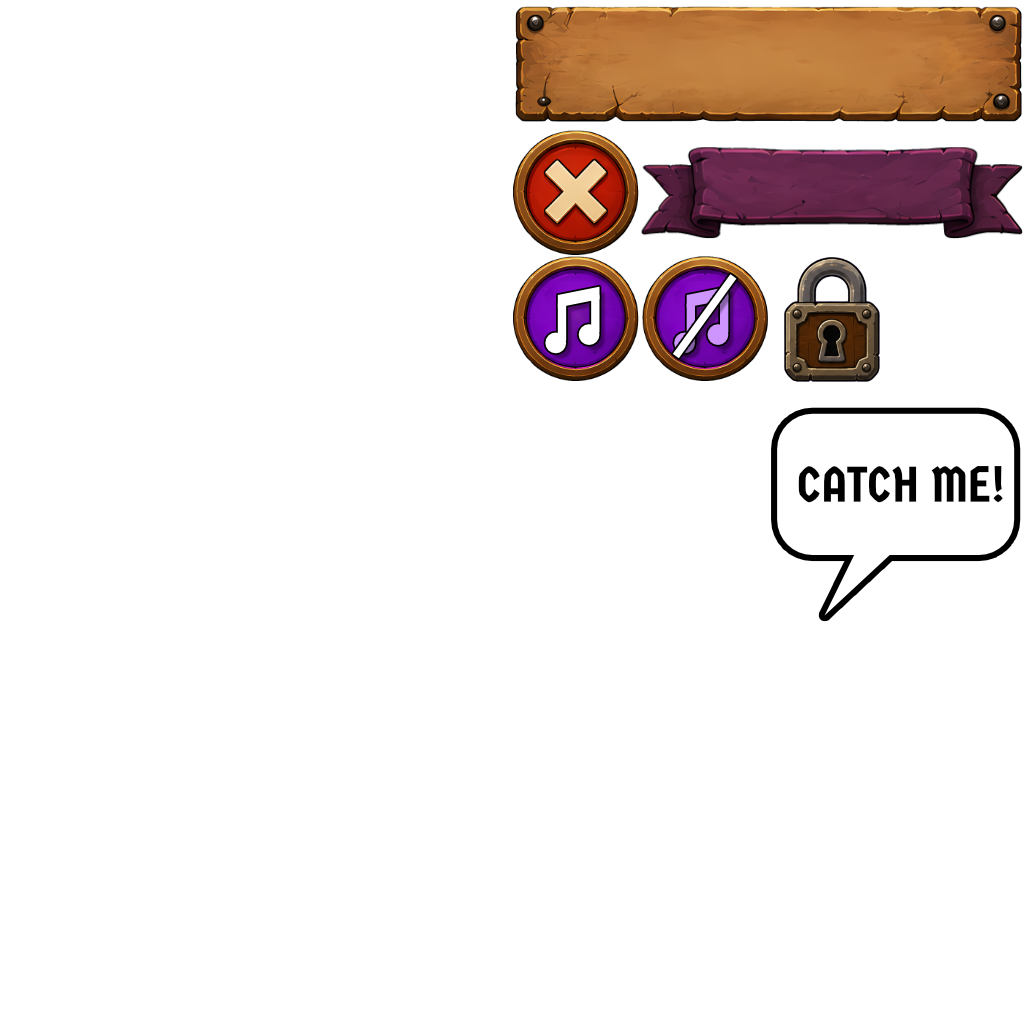
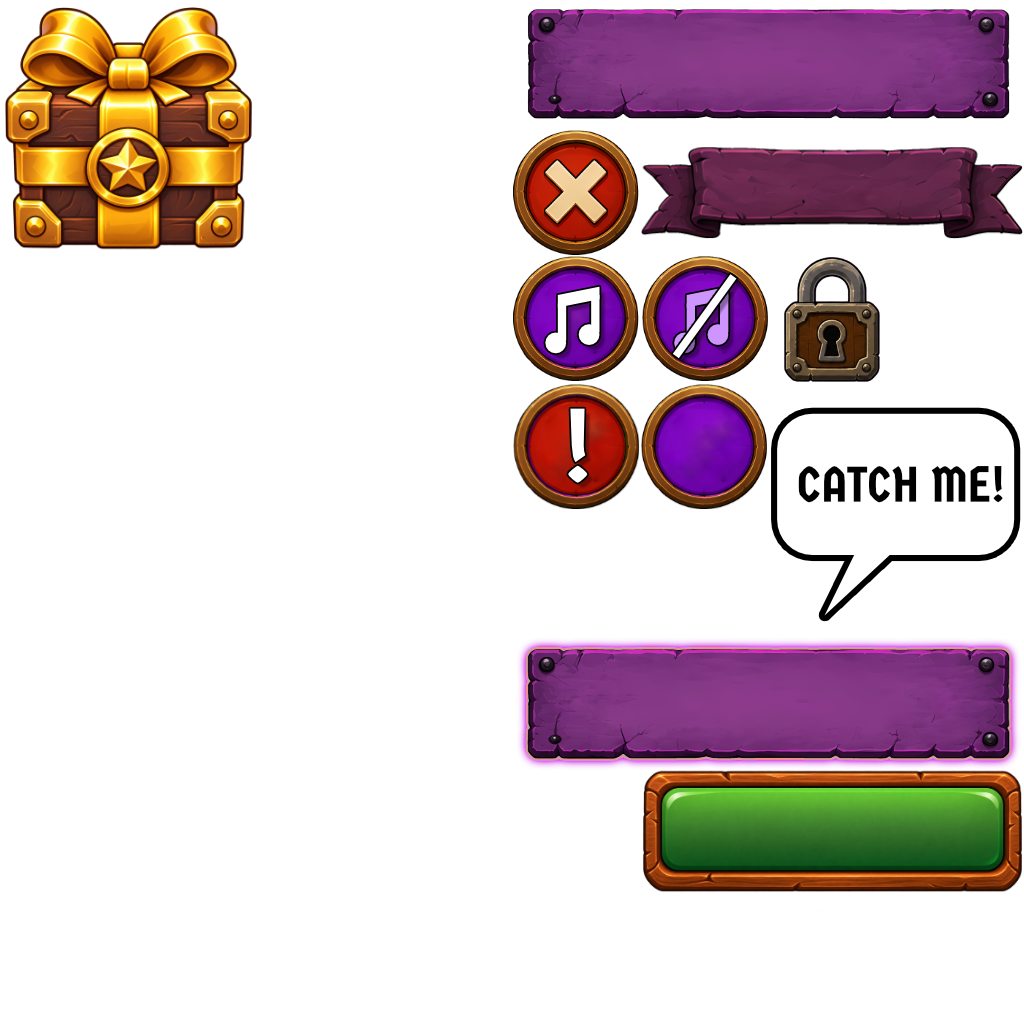
Improve weekly rewards button and screen

diff --git a/src/weeklyRewards.tsx b/src/weeklyRewards.tsx
@@ -1,11 +1,14 @@
-import ReactEcs, { UiEntity, Label, UiBackgroundProps } from '@dcl/sdk/react-ecs'
+import ReactEcs, { UiEntity, UiBackgroundProps } from '@dcl/sdk/react-ecs'
+import { engine } from '@dcl/sdk/ecs'
 import { Color4 } from '@dcl/sdk/math'
 import { getPlayer } from '@dcl/sdk/players'
 import { timers } from '@dcl-sdk/utils'
 import { room } from './shared/messages'
 import { guard } from './errorTrap'
+import { BitmapText, GERM_ONE_FONT, GERM_ONE_IMAGE, GERM_ONE_IMAGE_BROWN } from './bitmapFont'
+import { DEBUG_FORCE_WEEKLY_REWARDS_HINTS } from './debugFlags'
 
-// Weekly Rewards MVP: placeholder box UI (solid panels + plain Labels, no art yet). All validation
+// Weekly Rewards MVP: codex frame + bitmap font, solid-color buttons. All validation
 // lives on the server (src/server/weeklyRewards.ts) - this side only shows what the server says.
 
 type WeeklyRewardsState = 'loading' | 'ready' | 'claimable' | 'claimed' | 'error'
@@ -17,15 +20,29 @@ const LOAD_TIMEOUT_MS = 10000
 let state: WeeklyRewardsState = 'loading'
 let panelOpen = false
 let progress = 0
+let completedDays: string[] = []
+let elapsedTime = 0
 let requiredDays = 2
 let claiming = false
 let message: string | null = null
 let loadTimeout: number | null = null
 
-const BUTTON_COLOR = Color4.create(0.25, 0.25, 0.3, 1)
-const BUTTON_DISABLED_COLOR = Color4.create(0.18, 0.18, 0.2, 1)
-const CLAIM_COLOR = Color4.create(0.15, 0.5, 0.2, 1)
+// 3:1, same as the atlas_02 F7:H7 art.
+const CLAIM_BUTTON_WIDTH_PX = 240
+const CLAIM_BUTTON_HEIGHT_PX = 80
 const PROGRESS_BAR_BG_COLOR = Color4.create(0.25, 0.25, 0.25, 1)
+// Entry button width:height - 65% of the width of the atlas_02 E1:H1 art (4:1). Its height and top inset come from
+// the HUD (props.hudHeight / props.hudTop) so it lines up with the score box and header icons.
+const ENTRY_BUTTON_ASPECT = 4 * 0.65
+// Icon-to-box ratio of the HUD's own stat icons (STAT_ICON_SIZE_PX 60 in a 90px box).
+const ENTRY_ICON_SCALE = 2 / 3
+// Half the Play button's spinner oversize (PLAY_SPINNER_SCALE = 2 in ui.tsx).
+const ENTRY_SPINNER_SCALE = 1
+// Glow overlay on the entry button: opacity 0 -> 100% over the first half, back to 0 over the second.
+const ENTRY_GLOW_PERIOD = 4 // seconds
+// "!" badge over the entry button's right edge, vertically centered, sticking out by a third of its size.
+const ENTRY_BADGE_SIZE_PX = 40
+
 const PROGRESS_BAR_FILL_COLOR = Color4.create(0.3, 0.75, 0.35, 1)
 
 function requestStatus() {
@@ -43,6 +60,10 @@ function openPanel() {
   panelOpen = true
   message = null
   requestStatus()
+}
+
+export function isWeeklyRewardsPanelOpen(): boolean {
+  return panelOpen
 }
 
 function closePanel() {
@@ -69,6 +90,7 @@ export function setupWeeklyRewards() {
       loadTimeout = null
     }
     progress = data.progress
+    completedDays = data.completedDays
     requiredDays = data.requiredDays
     state = data.claimed ? 'claimed' : data.progress >= data.requiredDays ? 'claimable' : 'ready'
   }))
@@ -77,7 +99,27 @@ export function setupWeeklyRewards() {
     message = data.message
     if (data.claimed) state = 'claimed'
   }))
+  engine.addSystem((dt: number) => {
+    elapsedTime += dt
+  })
   requestStatus()
+}
+
+// Same day key as the server's dayIdFor (UTC date), so "today" matches what the server counts.
+function hasCompletedLevelToday(): boolean {
+  return completedDays.includes(new Date().toISOString().slice(0, 10))
+}
+
+// The glow nudges the player to come back and complete a level today - pointless before the status
+// has loaded, or once the week's mission is already done.
+function showingEntryGlow(): boolean {
+  if (DEBUG_FORCE_WEEKLY_REWARDS_HINTS) return true
+  return state === 'ready' && !hasCompletedLevelToday()
+}
+
+function getEntryGlowOpacity(): number {
+  const t = (elapsedTime % ENTRY_GLOW_PERIOD) / (ENTRY_GLOW_PERIOD / 2) // 0..2
+  return t < 1 ? t : 2 - t
 }
 
 function getProgressText(): string {
@@ -86,13 +128,35 @@ function getProgressText(): string {
   return `Progress: ${progress}/${requiredDays} days`
 }
 
-const Button = (props: { label: string; color: Color4; onPress: () => void; width?: number }) => (
+const Button = (props: {
+  label: string
+  background: UiBackgroundProps
+  onPress: () => void
+  width?: number
+  height?: number
+  icon?: UiBackgroundProps
+  iconSize?: number
+  overlay?: UiBackgroundProps
+}) => (
   <UiEntity
-    uiTransform={{ width: props.width ?? 220, height: 56, alignItems: 'center', justifyContent: 'center', borderRadius: 8 }}
-    uiBackground={{ color: props.color }}
+    uiTransform={{ width: props.width ?? 220, height: props.height ?? 56, alignItems: 'center', justifyContent: 'center', borderRadius: 8 }}
+    uiBackground={props.background}
     onMouseDown={props.onPress}
   >
-    <Label value={props.label} fontSize={24} color={Color4.White()} />
+    {/* Drawn first so it sits over the background but under the icon/label. */}
+    {props.overlay && (
+      <UiEntity
+        uiTransform={{ positionType: 'absolute', position: { top: 0, left: 0 }, width: '100%', height: '100%' }}
+        uiBackground={props.overlay}
+      />
+    )}
+    {props.icon && (
+      <UiEntity
+        uiTransform={{ width: props.iconSize ?? 40, height: props.iconSize ?? 40, flexShrink: 0, margin: { right: 8 } }}
+        uiBackground={props.icon}
+      />
+    )}
+    <BitmapText text={props.label} font={GERM_ONE_FONT} image={GERM_ONE_IMAGE} fontSize={24} />
   </UiEntity>
 )
 
@@ -103,7 +167,15 @@ export type WeeklyRewardsUiProps = {
   framePadding: number
   closeButtonBackground: UiBackgroundProps
   closeButtonSize: number
-  textColor: Color4
+  calendarIconBackground: UiBackgroundProps
+  entryButtonBackground: UiBackgroundProps
+  entryButtonIcon: UiBackgroundProps
+  entryButtonGlow: UiBackgroundProps
+  entryButtonBadge: UiBackgroundProps
+  claimButtonBackground: UiBackgroundProps
+  hudTop: number
+  hudHeight: number
+  renderSpinner: (widthPx: number, heightPx: number) => ReactEcs.JSX.Element
 }
 
 export const WeeklyRewardsUi = (props: WeeklyRewardsUiProps) => (
@@ -111,8 +183,47 @@ export const WeeklyRewardsUi = (props: WeeklyRewardsUiProps) => (
     uiTransform={{ width: '100%', height: '100%', positionType: 'absolute', position: { top: 0, left: 0 } }}
   >
     {/* Top-right entry button. */}
-    <UiEntity uiTransform={{ positionType: 'absolute', position: { top: 24, right: 24 } }}>
-      <Button label="Weekly Rewards" color={BUTTON_COLOR} width={240} onPress={() => (panelOpen ? closePanel() : openPanel())} />
+    <UiEntity
+      uiTransform={{
+        positionType: 'absolute',
+        position: { top: props.hudTop, right: 24 },
+        width: props.hudHeight * ENTRY_BUTTON_ASPECT,
+        height: props.hudHeight,
+        alignItems: 'center',
+        justifyContent: 'center'
+      }}
+    >
+      {/* Spinner behind the button until this week's mission is completed (2/2 days) - rendered
+      first as an oversized flex child so it overflows symmetrically, same as the Play button's. */}
+      {state !== 'claimable' &&
+        state !== 'claimed' &&
+        props.renderSpinner(props.hudHeight * ENTRY_BUTTON_ASPECT * ENTRY_SPINNER_SCALE, props.hudHeight * ENTRY_SPINNER_SCALE)}
+      <UiEntity uiTransform={{ positionType: 'absolute', position: { top: 0, left: 0 } }}>
+        <Button
+          label={'Weekly\nRewards'}
+          background={props.entryButtonBackground}
+          width={props.hudHeight * ENTRY_BUTTON_ASPECT}
+          height={props.hudHeight}
+          icon={props.entryButtonIcon}
+          iconSize={props.hudHeight * ENTRY_ICON_SCALE}
+          overlay={
+            showingEntryGlow() ? { ...props.entryButtonGlow, color: Color4.create(1, 1, 1, getEntryGlowOpacity()) } : undefined
+          }
+          onPress={() => (panelOpen ? closePanel() : openPanel())}
+        />
+      </UiEntity>
+      {/* Last sibling so it draws over the button - same condition as the glow. */}
+      {showingEntryGlow() && (
+        <UiEntity
+          uiTransform={{
+            positionType: 'absolute',
+            position: { top: (props.hudHeight - ENTRY_BADGE_SIZE_PX) / 2, right: -ENTRY_BADGE_SIZE_PX / 3 },
+            width: ENTRY_BADGE_SIZE_PX,
+            height: ENTRY_BADGE_SIZE_PX
+          }}
+          uiBackground={props.entryButtonBadge}
+        />
+      )}
     </UiEntity>
 
     {panelOpen && (
@@ -140,15 +251,21 @@ export const WeeklyRewardsUi = (props: WeeklyRewardsUiProps) => (
             uiBackground={props.closeButtonBackground}
             onMouseDown={closePanel}
           />
-          <Label value="Weekly Rewards" fontSize={40} color={props.textColor} />
-          <Label
-            value={'Visit Monster Recon on 2 different days this week.\nComplete at least 1 level each day to count your visit.'}
-            fontSize={22}
-            color={props.textColor}
-            textAlign="middle-center"
-            uiTransform={{ margin: { top: 16 } }}
-          />
-          <Label value={getProgressText()} fontSize={26} color={props.textColor} uiTransform={{ margin: { top: 24 } }} />
+          <BitmapText text="Weekly Rewards" font={GERM_ONE_FONT} image={GERM_ONE_IMAGE_BROWN} fontSize={40} />
+          <UiEntity uiTransform={{ flexDirection: 'row', alignItems: 'center', margin: { top: 16 } }}>
+            <UiEntity
+              uiTransform={{ width: 96, height: 96, flexShrink: 0, margin: { right: 16 } }}
+              uiBackground={props.calendarIconBackground}
+            />
+            <BitmapText
+              text={'Visit Monster Recon on 2 different days this week.\nComplete at least 1 level each day to count your visit.'}
+              fontSize={22}
+              font={GERM_ONE_FONT}
+              image={GERM_ONE_IMAGE_BROWN}
+              maxWidth={480}
+            />
+          </UiEntity>
+          <BitmapText text={getProgressText()} font={GERM_ONE_FONT} image={GERM_ONE_IMAGE_BROWN} fontSize={26} uiTransform={{ margin: { top: 24 } }} />
           {state !== 'loading' && state !== 'error' && (
             <UiEntity
               uiTransform={{ width: 400, height: 16, margin: { top: 12 }, borderRadius: 8 }}
@@ -161,13 +278,23 @@ export const WeeklyRewardsUi = (props: WeeklyRewardsUiProps) => (
             </UiEntity>
           )}
           {message !== null && (
-            <Label value={message} fontSize={22} color={props.textColor} uiTransform={{ margin: { top: 16 } }} />
+            <BitmapText
+              text={message}
+              font={GERM_ONE_FONT}
+              image={GERM_ONE_IMAGE_BROWN}
+              fontSize={22}
+              maxWidth={600}
+              align="center"
+              uiTransform={{ margin: { top: 16 } }}
+            />
           )}
           <UiEntity uiTransform={{ flexDirection: 'row', margin: { top: 24 } }}>
             {/* Always pressable once loaded - the server answers with why a claim isn't allowed yet. */}
             <Button
               label={claiming ? 'Claiming...' : state === 'claimed' ? 'Claimed' : 'Claim Reward'}
-              color={state === 'claimable' ? CLAIM_COLOR : BUTTON_DISABLED_COLOR}
+              background={props.claimButtonBackground}
+              width={CLAIM_BUTTON_WIDTH_PX}
+              height={CLAIM_BUTTON_HEIGHT_PX}
               onPress={claim}
             />
           </UiEntity>

diff --git a/src/ui.tsx b/src/ui.tsx
@@ -54,7 +54,7 @@ import { SpiderRain } from './spider'
 import { BatRain } from './bat'
 import { Splash } from './splash'
 import { setMaxCritters } from './critterRain'
-import { setupWeeklyRewards, WeeklyRewardsUi } from './weeklyRewards'
+import { setupWeeklyRewards, WeeklyRewardsUi, isWeeklyRewardsPanelOpen } from './weeklyRewards'
 
 const BACK_IMAGE = 'assets/images/atlas_01.png'
 const ATLAS_02_IMAGE = 'assets/images/atlas_02.png'
@@ -785,12 +785,18 @@ const PLAY_GLOW_UVS = getUvsForBlock(0, 6, 4, 2, BACK_ATLAS_GRID) // A7-D8 - sam
 const SCORE_ICON_UVS = getUvsForBlock(6, 4, 2, 2, BACK_ATLAS_GRID) // G5-H6
 const TIMER_ICON_UVS = getUvsForBlock(4, 4, 2, 2, BACK_ATLAS_GRID) // E5-F6
 const CLOSE_BUTTON_UVS = getUvsForBlock(4, 1, 1, 1, BACK_ATLAS_GRID) // atlas_02.png E2
+const WEEKLY_REWARDS_BUTTON_UVS = getUvsForBlock(4, 0, 4, 1, BACK_ATLAS_GRID) // atlas_02.png E1-H1
+const WEEKLY_REWARDS_ICON_UVS = getUvsForBlock(0, 0, 2, 2, BACK_ATLAS_GRID) // atlas_02.png A1-B2
+const WEEKLY_REWARDS_GLOW_UVS = getUvsForBlock(4, 5, 4, 1, BACK_ATLAS_GRID) // atlas_02.png E6-H6
+const WEEKLY_REWARDS_BADGE_UVS = getUvsForBlock(4, 3, 1, 1, BACK_ATLAS_GRID) // atlas_02.png E4
+const WEEKLY_REWARDS_CLAIM_UVS = getUvsForBlock(5, 6, 3, 1, BACK_ATLAS_GRID) // atlas_02.png F7-H7
 const MUSIC_ON_UVS = getUvsForBlock(4, 2, 1, 1, BACK_ATLAS_GRID) // atlas_02.png E3
 const MUSIC_OFF_UVS = getUvsForBlock(5, 2, 1, 1, BACK_ATLAS_GRID) // atlas_02.png F3
 const LOCK_ICON_UVS = getUvsForBlock(6, 2, 1, 1, BACK_ATLAS_GRID) // atlas_02.png G3
 const COUNTDOWN_BACKGROUND_UVS = getUvsForBlock(6, 2, 2, 2, BACK_ATLAS_GRID) // atlas_01.png G3-H4
 // Backs the active pip in the board-progression bar - a single cell, unlike the countdown's 2x2.
 const BOARD_PROGRESS_PIP_UVS = getUvsForBlock(6, 6, 1, 1, BACK_ATLAS_GRID) // atlas_01.png G7
+const CALENDAR_ICON_UVS = getUvsForBlock(4, 6, 2, 2, BACK_ATLAS_GRID) // atlas_01.png E7-F8
 
 interface CellState {
   frontQuadrant: number
@@ -1981,7 +1987,7 @@ const MemoryMatchUi = () => (
           borderColor: DEBUG_BORDER_RED
         }}
       >
-        {screen === 'hidden' && playerInPlayArea &&
+        {screen === 'hidden' && playerInPlayArea && !isWeeklyRewardsPanelOpen() &&
           (() => {
             const pulseScale = getPlayButtonPulseScale()
             const pulseWidth = getPlayButtonWidthPx() * pulseScale
@@ -2892,7 +2898,16 @@ const MemoryMatchUi = () => (
       framePadding={getFramePaddingPx()}
       closeButtonBackground={{ textureMode: 'stretch', texture: { src: ATLAS_02_IMAGE }, uvs: CLOSE_BUTTON_UVS }}
       closeButtonSize={CLOSE_BUTTON_SIZE_PX}
-      textColor={SCREEN_TEXT_COLOR}
+      calendarIconBackground={{ textureMode: 'stretch', texture: { src: BACK_IMAGE }, uvs: CALENDAR_ICON_UVS }}
+      entryButtonBackground={{ textureMode: 'stretch', texture: { src: ATLAS_02_IMAGE }, uvs: WEEKLY_REWARDS_BUTTON_UVS }}
+      entryButtonIcon={{ textureMode: 'stretch', texture: { src: ATLAS_02_IMAGE }, uvs: WEEKLY_REWARDS_ICON_UVS }}
+      entryButtonGlow={{ textureMode: 'stretch', texture: { src: ATLAS_02_IMAGE }, uvs: WEEKLY_REWARDS_GLOW_UVS }}
+      entryButtonBadge={{ textureMode: 'stretch', texture: { src: ATLAS_02_IMAGE }, uvs: WEEKLY_REWARDS_BADGE_UVS }}
+      claimButtonBackground={{ textureMode: 'stretch', texture: { src: ATLAS_02_IMAGE }, uvs: WEEKLY_REWARDS_CLAIM_UVS }}
+      renderSpinner={renderSpinner}
+      // Same top inset (canvas_main's top padding) and height as the header's score box/icons.
+      hudTop={CANVAS_MAIN_PADDING_PX}
+      hudHeight={HEADER_RIGHT_ICON_SIZE_PX}
     />
 
     {/* Cinema-style letterbox bars for the checkpoint-1 tutorial cinematic (see tutorialChase.ts) -

diff --git a/src/debugFlags.ts b/src/debugFlags.ts
@@ -84,6 +84,10 @@ export const DEBUG_FREEZE_TUTORIAL_CHASE = false
 // so adoptLeaderboardScore never matches one and the header score is left alone.
 export const DEBUG_FAKE_LEADERBOARD = false
 
+// Visual-only: always shows the Weekly Rewards button's pulsing glow and "!" badge, regardless of
+// whether a level was completed today or the week's mission is done - for checking how they look.
+export const DEBUG_FORCE_WEEKLY_REWARDS_HINTS = true
+
 // Deliberately awkward on purpose: a name long enough to run into the score column, a single-letter
 // name, a 5-digit score and both 2-digit and 0 levels, so the layout is checked at its extremes
 // rather than at a comfortable average. The addresses are placeholders - no profile exists for
